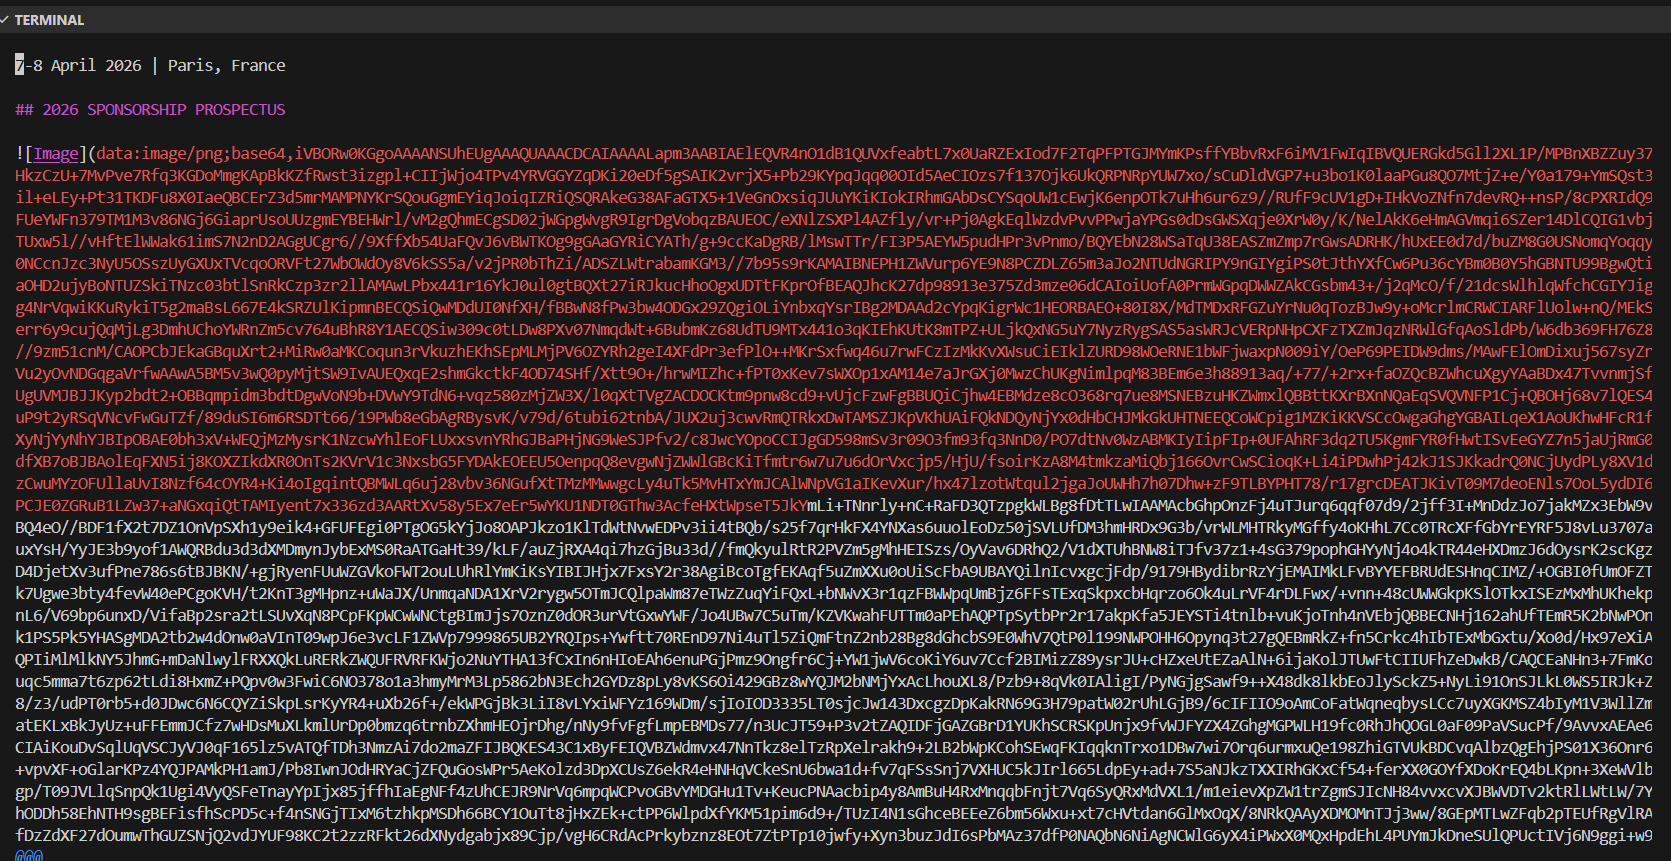
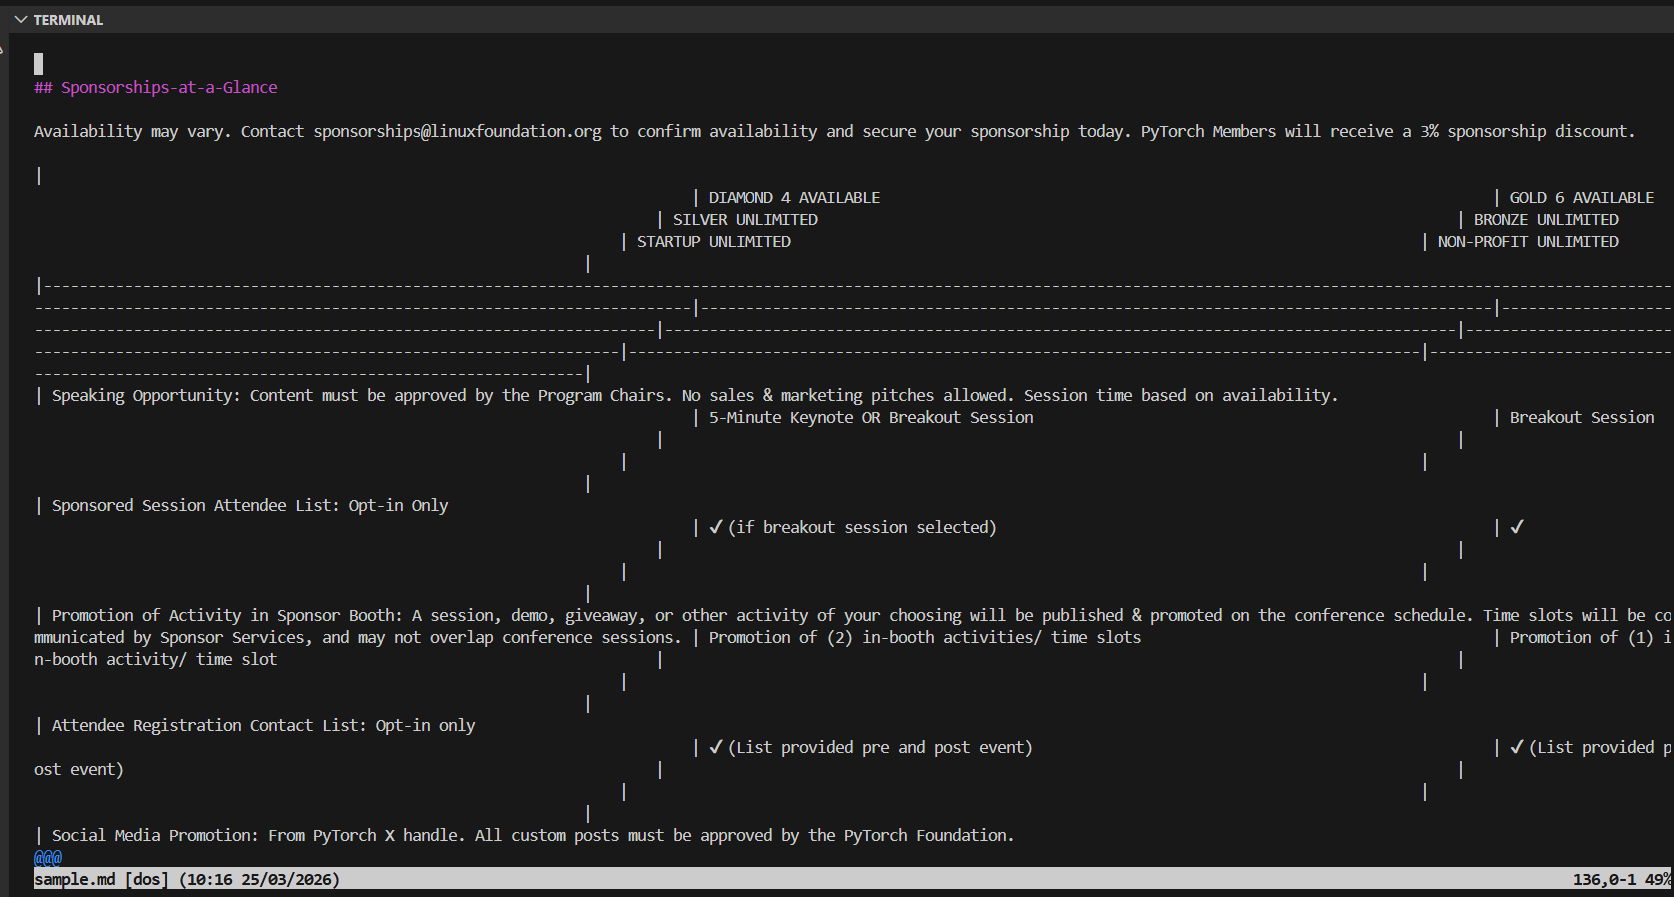
first markdown output updated

Changed region(s): [[0.0, 0.0604, 1.0, 1.0], [0.0, 0.0, 0.0622, 0.0302]]

diff --git a/README.md b/README.md
@@ -123,6 +123,12 @@ docling sample.pdf
 
 ![Default Conversion Output](screenshots/docling_sample.pdf_command_success_output.png)
 
+---
+
+**Output in Markdown**
+![Markdown display sample](screenshots/sample_md.png)
+
+
 #### Observations
 
 ✅ **Successful conversion** to Markdown format  
